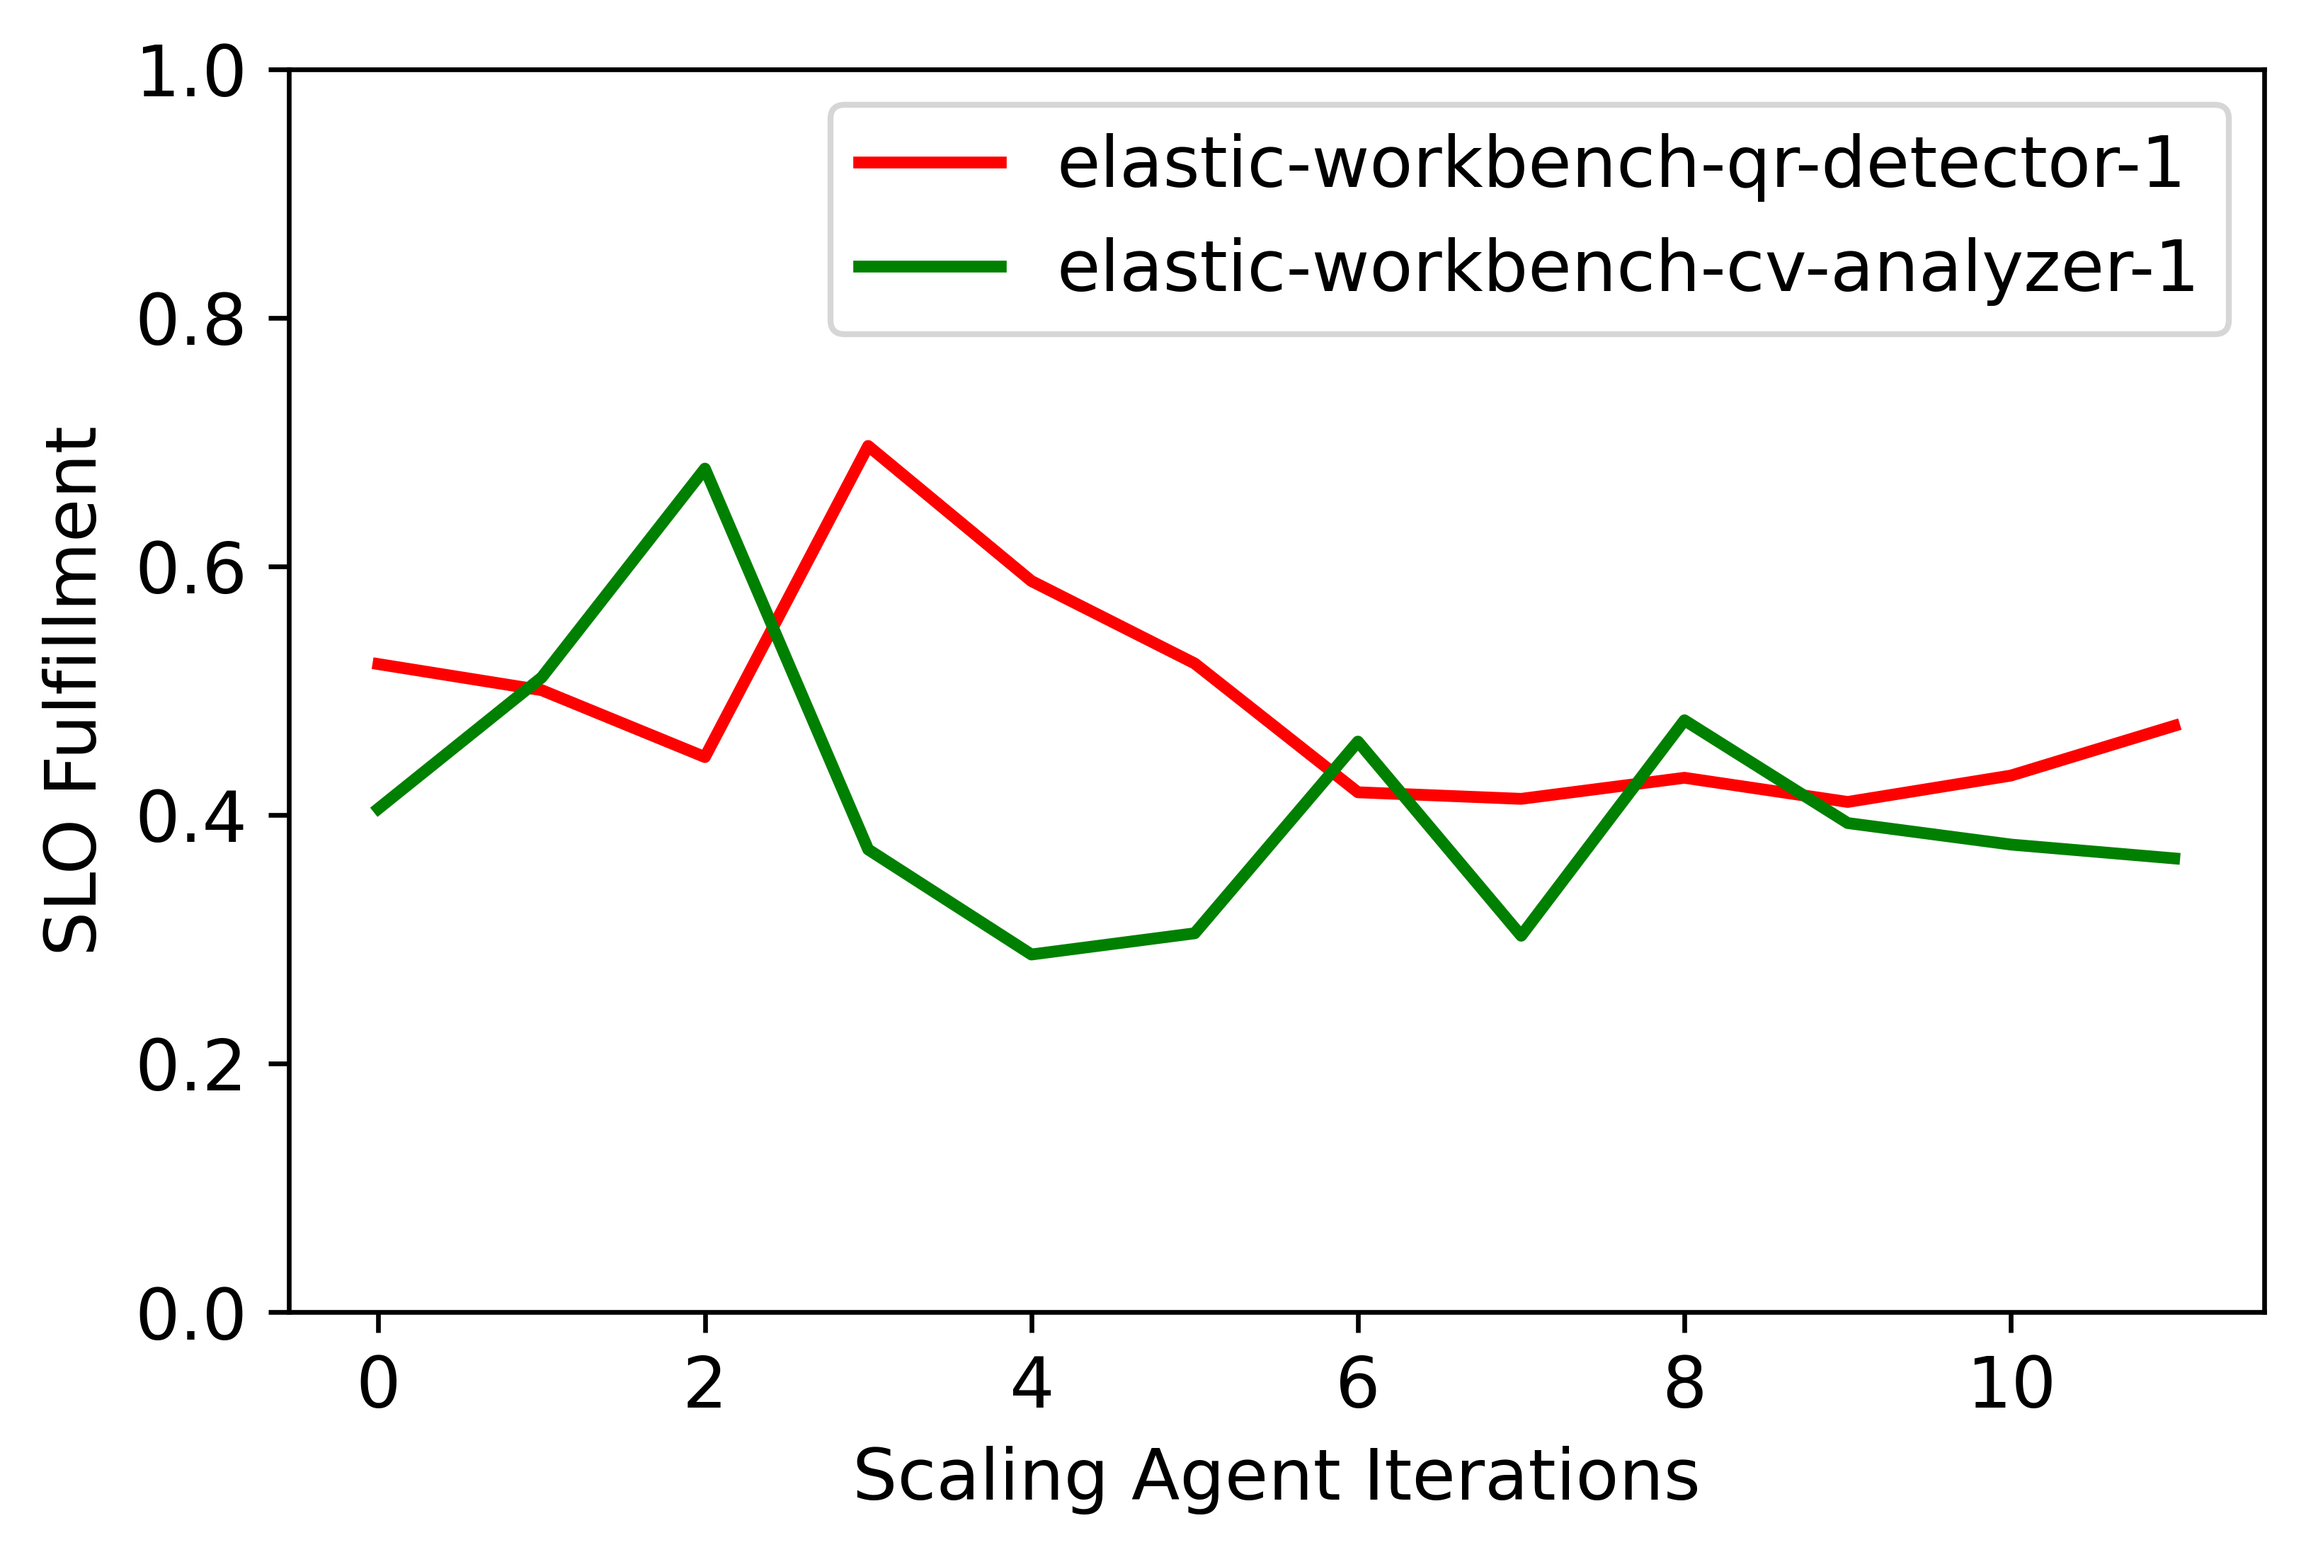
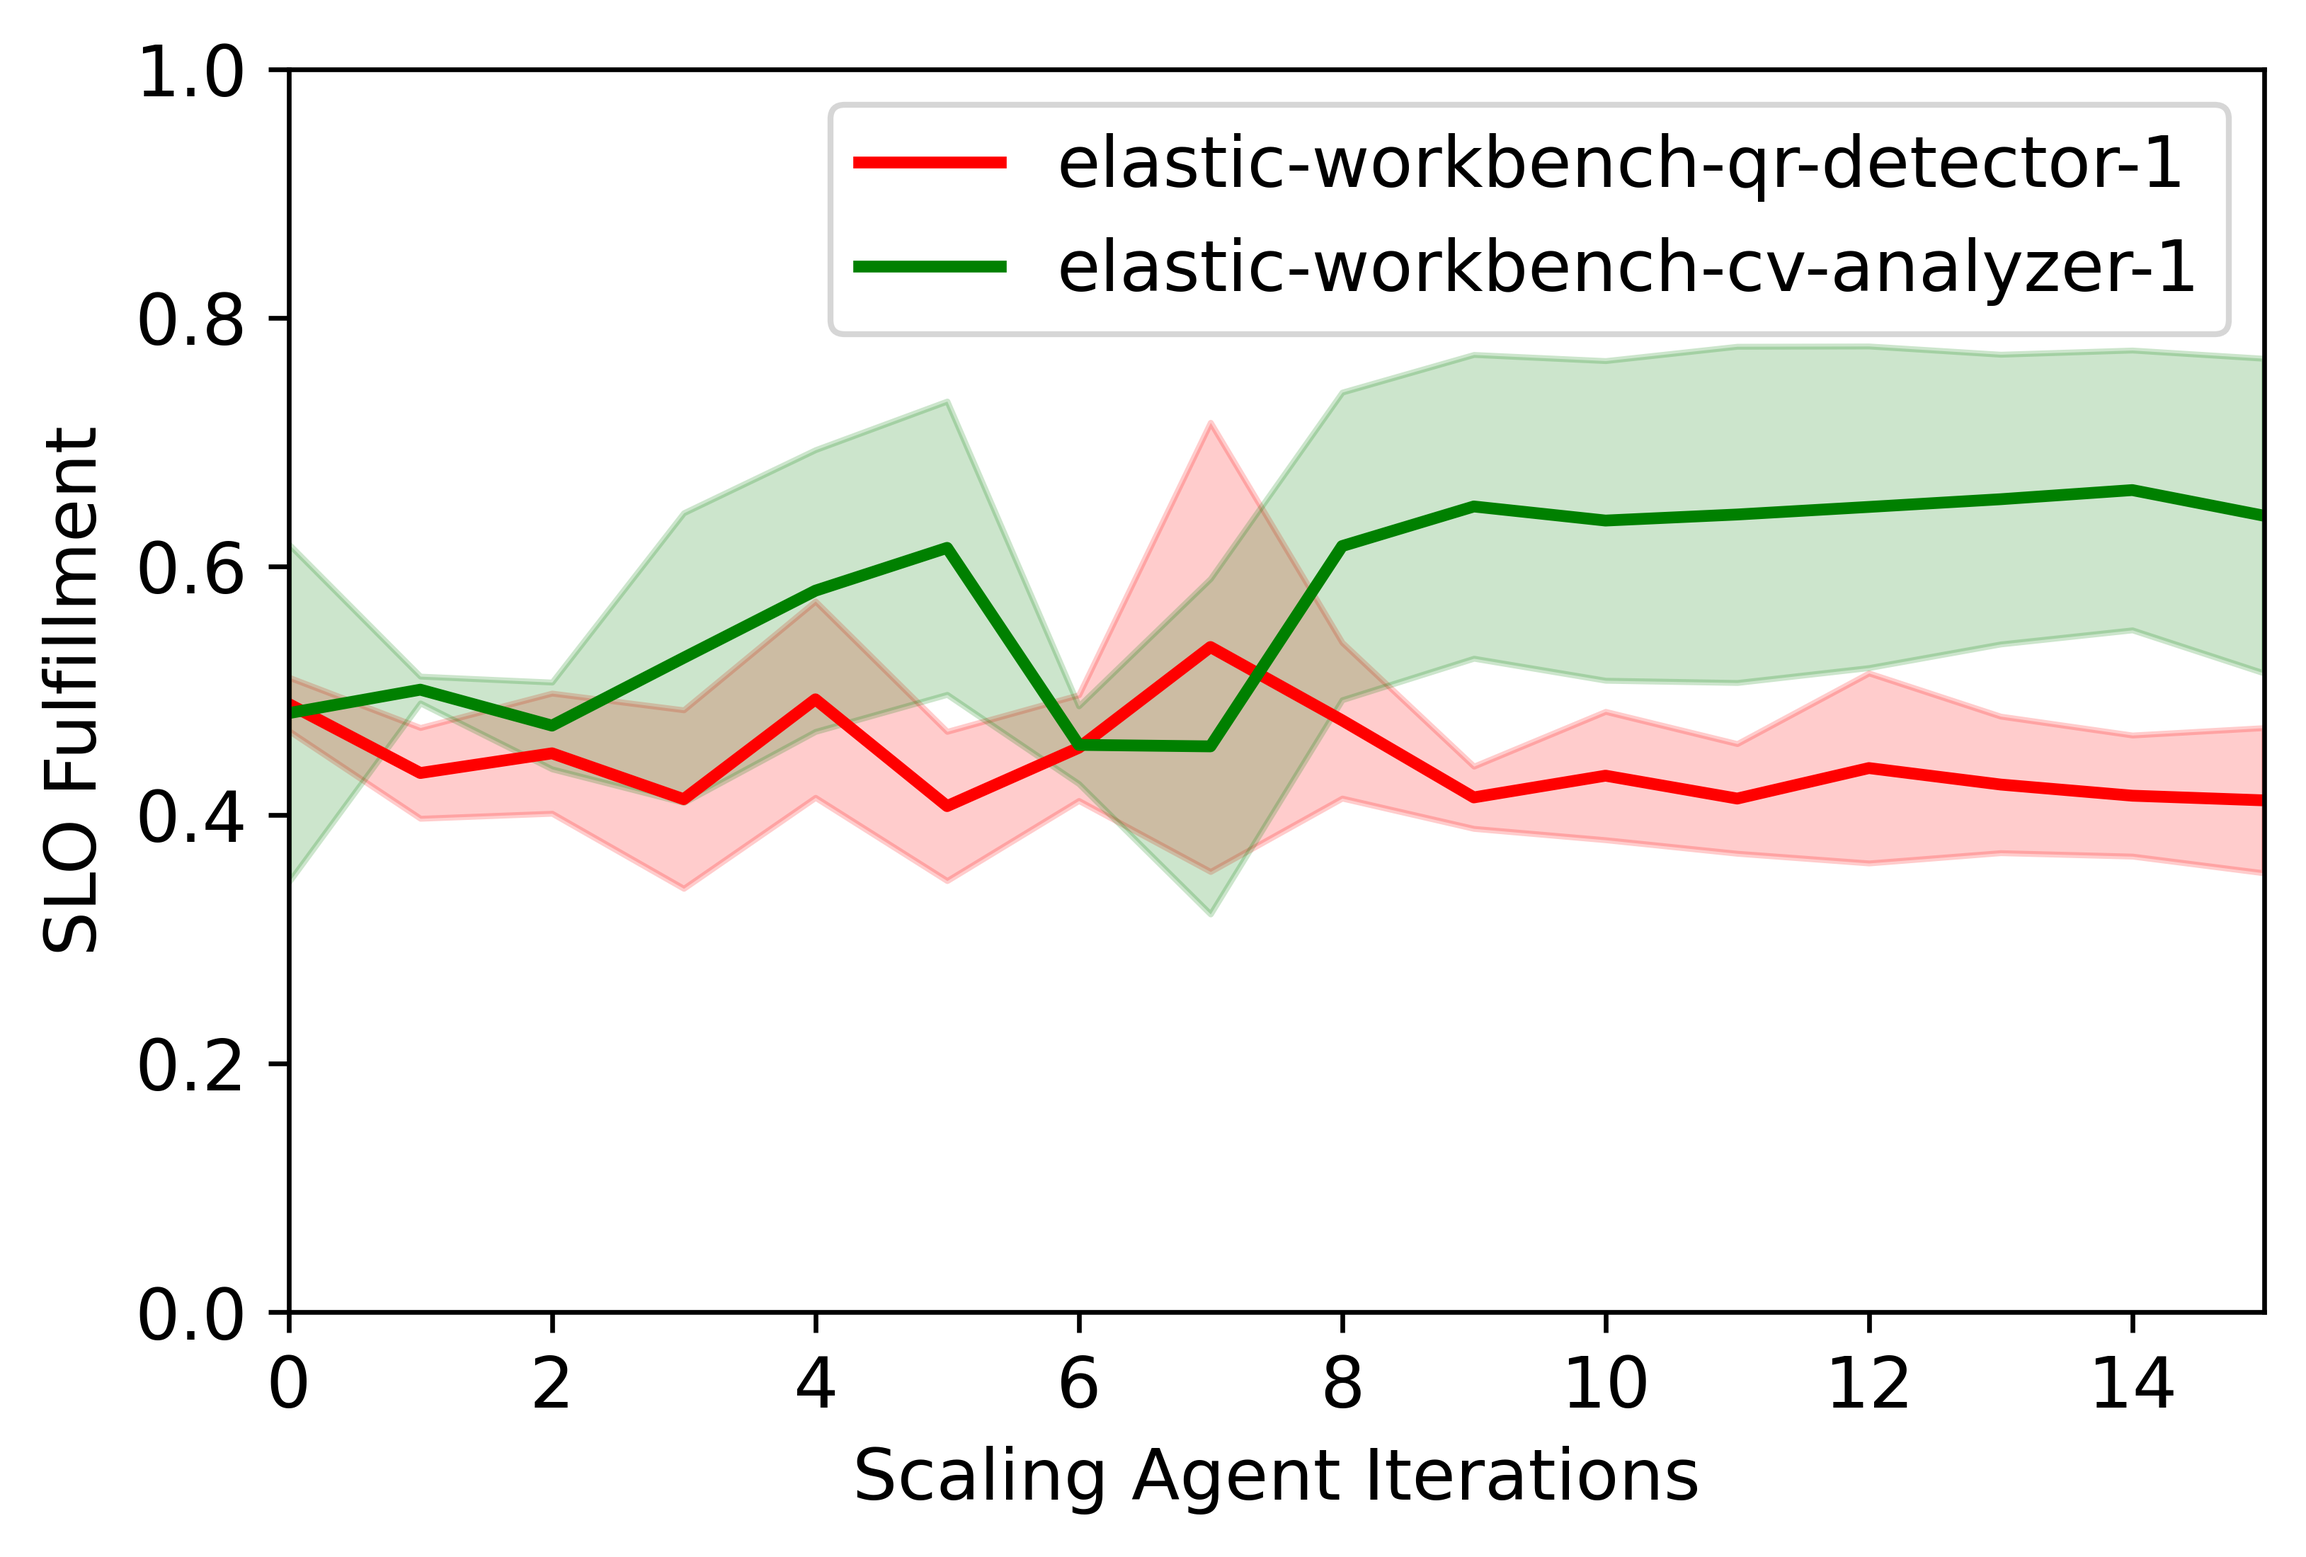
log experience only in one operation

diff --git a/results/IWAI_A1/A1.py b/results/IWAI_A1/A1.py
@@ -11,7 +11,7 @@ import utils
 from agent.ES_Registry import ServiceID, ServiceType
 from agent.RRM_Global_Agent import RRM_Global_Agent
 from agent.SLO_Registry import SLO_Registry
-from agent.agent_utils import delete_file_if_exists
+from agent.agent_utils import delete_file_if_exists, export_experience_buffer
 from iwai.DQN_Agent import DQN_Agent
 from iwai.DQN_Trainer import ACTION_DIM, DQN, STATE_DIM
 
@@ -20,6 +20,7 @@ plt.rcParams.update({'font.size': 12})
 nn_folder = "./networks"
 EXPERIMENT_REPETITIONS = 5
 EXPERIMENT_DURATION = 80
+MAX_EXPLORE = 9
 
 ps = "http://172.20.0.2:9090"
 
@@ -75,13 +76,14 @@ def eval_RRM_agent():
         agent = RRM_Global_Agent(services_monitored=[qr_local, cv_local], prom_server=ps,
                                  evaluation_cycle=EVALUATION_FREQUENCY, slo_registry_path="./config/slo_config.json",
                                  es_registry_path="./config/es_registry.json",
-                                 log_experience=rep)
+                                 log_experience=rep, max_explore=MAX_EXPLORE)
         agent.reset_services_states()
         time.sleep(5)  # Needs a couple of seconds after resetting the services (i.e., calling ES)
 
         agent.start()
         time.sleep(EXPERIMENT_DURATION)
         agent.terminate_gracefully()
+        export_experience_buffer(agent.experience_buffer)
         print(f"Agent finished evaluation round #{rep} after {EXPERIMENT_DURATION * rep} seconds")
 
 
@@ -113,7 +115,7 @@ def visualize_data(slof_files, output_file):
     # plt.plot(x, m_base, label='Baseline VPA', color='black', linewidth=1.5)
     # plt.vlines([0.1, 10, 20, 30, 40], ymin=1.25, ymax=2.75, label='Adjust Thresholds', linestyles="--")
 
-    # plt.xlim(-0.1, 49.1)
+    plt.xlim(0.0, len(df.index) / (EXPERIMENT_REPETITIONS * 2) - 1)
     plt.ylim(0.0, 1.0)
 
     plt.xlabel('Scaling Agent Iterations')

diff --git a/agent/agent_utils.py b/agent/agent_utils.py
@@ -8,8 +8,6 @@ from typing import NamedTuple
 
 import pandas as pd
 
-import utils
-
 logger = logging.getLogger('multiscale')
 
 
@@ -80,23 +78,29 @@ class Full_State(NamedTuple):
         # return [self.quality, self.quality_thresh, self.throughput, self.tp_thresh,
         #     self.cores, self.free_cores > 0]
 
+
 # @utils.print_execution_time
-def log_slo_fulfillment(service, slo_f: float, prefix: str, state):
-    # Define the directory and file name
+def export_experience_buffer(rows: tuple):
     directory = "./"
     file_name = "agent_experience.csv"
     file_path = os.path.join(directory, file_name)
 
     file_exists = os.path.isfile(file_path)
+    is_empty = not file_exists or os.path.getsize(file_path) == 0
 
-    # Open the file in append mode
+    data = []
+
+    if is_empty:
+        data.append(["rep", "timestamp", "service", "slo_f", "state"])
+
+    data.extend([
+        [prefix, timestamp, service.container_id, slo_f, service_state]
+        for service, timestamp, slo_f, prefix, service_state in rows
+    ])
+
     with open(file_path, mode='a', newline='') as file:
         writer = csv.writer(file)
-
-        if not file_exists or os.path.getsize(file_path) == 0:
-            writer.writerow(["rep", "timestamp", "service", "slo_f", "state"])
-
-        writer.writerow([prefix, datetime.datetime.now(), service.container_id, slo_f, state])
+        writer.writerows(data)
 
 
 def log_service_state(state: Full_State, prefix):
@@ -117,6 +121,7 @@ def log_service_state(state: Full_State, prefix):
                  "free_cores"])
 
         writer.writerow([prefix, datetime.datetime.now()] + list(state))
+
 
 def wait_for_remaining_interval(interval_length: int, start_time: float):
     interval_ms = 1000 * interval_length

diff --git a/agent/ScalingAgent.py b/agent/ScalingAgent.py
@@ -1,3 +1,4 @@
+import datetime
 import logging
 import time
 from abc import ABC, abstractmethod
@@ -12,7 +13,7 @@ from RedisClient import RedisClient
 from agent.ES_Registry import ES_Registry, ServiceID, ServiceType, EsType
 from agent.LGBN import calculate_missing_vars
 from agent.SLO_Registry import SLO_Registry, calculate_SLO_F_clients
-from agent.agent_utils import log_service_state, Full_State, log_slo_fulfillment, wait_for_remaining_interval
+from agent.agent_utils import log_service_state, Full_State, wait_for_remaining_interval
 
 logger = logging.getLogger("multiscale")
 
@@ -37,6 +38,7 @@ class ScalingAgent(Thread, ABC):
         self.reddis_client = RedisClient()
         self.slo_registry = SLO_Registry(slo_registry_path)
         self.es_registry = ES_Registry(es_registry_path)
+        self.experience_buffer = []
 
     def resolve_service_state(self, service_id: ServiceID, assigned_clients: Dict[str, int]):
         """
@@ -135,7 +137,6 @@ class ScalingAgent(Thread, ABC):
 
         log_service_state(state_pw, self.log_experience)
 
-    def evaluate_slos_and_log(self, service_m, service_state, slos_all_clients):
-
+    def evaluate_slos_and_buffer(self, service_m, service_state, slos_all_clients):
         slo_f = calculate_SLO_F_clients(service_state, slos_all_clients)
-        log_slo_fulfillment(service_m, slo_f, self.log_experience, service_state)
+        self.experience_buffer.append((service_m, datetime.datetime.now(), slo_f, self.log_experience, service_state))

diff --git a/agent/RRM_Global_Agent.py b/agent/RRM_Global_Agent.py
@@ -24,13 +24,13 @@ class RRM_Global_Agent(ScalingAgent):
     def __init__(self, prom_server, services_monitored: list[ServiceID], evaluation_cycle,
                  slo_registry_path=ROOT + "/../config/slo_config.json",
                  es_registry_path=ROOT + "/../config/es_registry.json",
-                 log_experience=None):
+                 log_experience=None, max_explore = 10):
         super().__init__(prom_server, services_monitored, evaluation_cycle, slo_registry_path, es_registry_path,
                          log_experience)
         # self.epsilon = 1.0
         # self.epsilon_decay = 0.85
         self.explore_count = 0
-        self.max_explore = 6
+        self.max_explore = max_explore
 
     @utils.print_execution_time
     def orchestrate_services_optimally(self, services_m: list[ServiceID]):
@@ -56,9 +56,8 @@ class RRM_Global_Agent(ScalingAgent):
         all_client_slos = self.slo_registry.get_all_SLOs_for_assigned_clients(service_m.service_type, assigned_clients)
         total_rps = utils.to_absolut_rps(assigned_clients)
 
-        # TODO: The fractions of the cores are not logged
         if self.log_experience is not None:
-            self.evaluate_slos_and_log(service_m, service_state, all_client_slos)
+            self.evaluate_slos_and_buffer(service_m, service_state, all_client_slos)
 
         return service_m.service_type, ES_parameter_bounds, all_client_slos, total_rps
 
